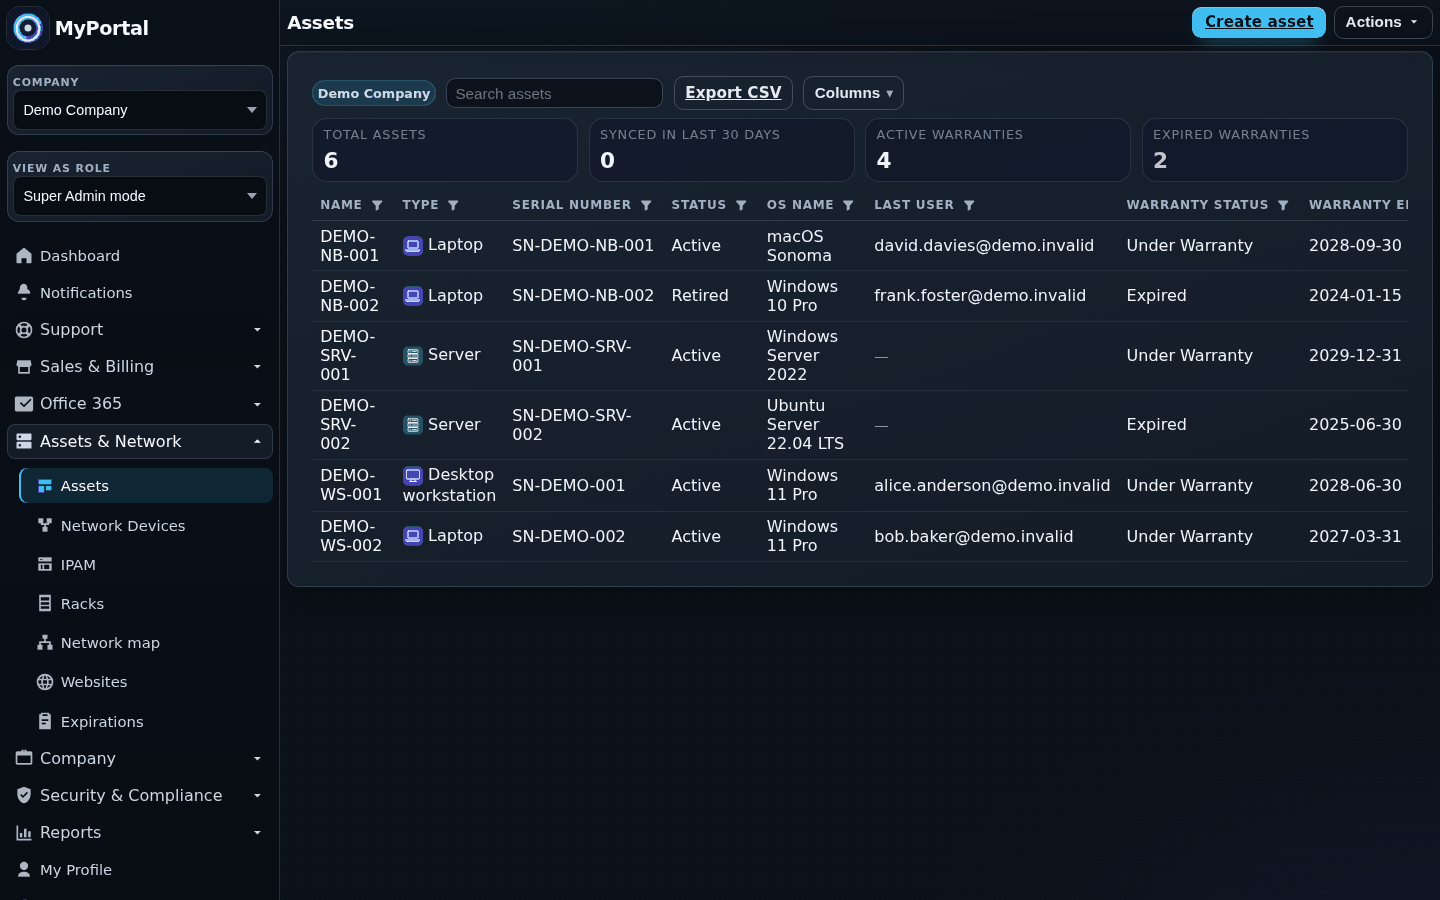
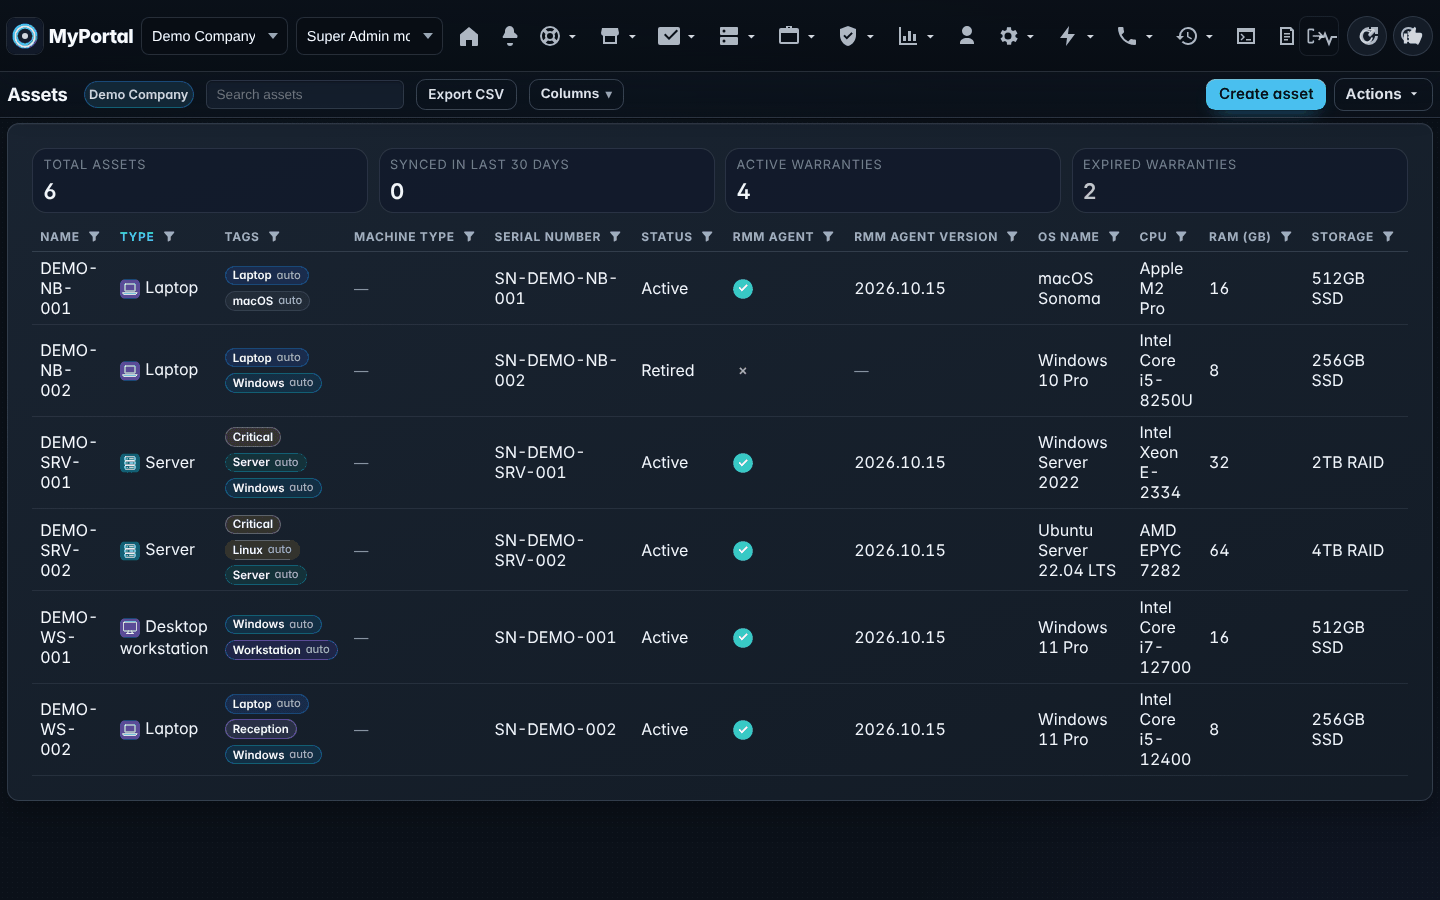
Update README with RMM, custom forms and other new features
Add a Remote monitoring and management section (agent roll-out, scripts,
checks, targeting, event logs, inventory and machine stats, patch
management, remote control and findings) and cover custom forms, client
onboarding, tags, warranty lookup, legal policies and AI opt-out, LLM
usage, the .env checker, tray deployment URLs, Microsoft 365 signature
targeting and reported emails. Replace OpnForm with Custom Forms, list
Gitea, Chocolatey, RustDesk and MeshCentral as integrations, note the
event log and stats databases and the RMM agent in the architecture,
link the new wiki pages, mention the top menu default, and move the
Sophia note out of the License section.

Add screenshots of the RMM pages, asset machine stats, custom forms,
client onboarding and LLM usage, and refresh the tickets, ticket detail
and assets screenshots in the current UI.

Claude-Session: https://claude.ai/code/session_01C7DWwnC7K9fWo76hTB7unL

diff --git a/README.md b/README.md
@@ -2,7 +2,7 @@
 
 <p align="center">
   <strong>A self-hosted customer portal and service-desk platform for managed service providers.</strong><br />
-  Tickets, assets, Microsoft 365, compliance, billing and automation for every customer company, in one place.
+  Tickets, assets, remote monitoring, Microsoft 365, compliance, billing and automation for every customer company, in one place.
 </p>
 
 <p align="center">
@@ -29,6 +29,7 @@
 - [Overview](#overview)
 - [Feature tour](#feature-tour)
   - [Service desk](#service-desk)
+  - [Remote monitoring and management](#remote-monitoring-and-management)
   - [Sales, shop and billing](#sales-shop-and-billing)
   - [Microsoft 365](#microsoft-365)
   - [Assets, network and staff](#assets-network-and-staff)
@@ -44,11 +45,13 @@
 ## Overview
 
 MyPortal gives an MSP and its customers a shared workspace. Technicians and super admins switch between customer
-companies from the sidebar. Customer users see only their own company, limited by the roles and permissions you give
-them.
+companies from the company switcher in the menu. Customer users see only their own company, limited by the roles and
+permissions you give them.
 
 - **Multi-company by design.** Company switching, reusable roles, per-company permissions, a "view as role"
   preview, and impersonation for support.
+- **Remote management built in.** The MyPortal RMM agent runs scripts and checks and collects inventory on Windows,
+  macOS and Linux devices. On Windows it also handles patching and event log collection.
 - **Secure by default.** TOTP two-factor enrolment is mandatory for every account. Passkeys (WebAuthn), CSRF
   protection, rate limiting, session management, an encrypted credential vault, and a full audit trail are built in.
 - **Modular.** Each area of the app is a hot-reloadable *feature pack*. Integrations are switched on as *modules*,
@@ -56,30 +59,81 @@ them.
 - **Operable.** Blue/green production installs, one-click upgrades from the portal, a Docker deployment script,
   Redis-backed multi-worker scaling, and a built-in scheduler.
 
+The menu runs across the top of the page by default. Each user can move it to a left sidebar under
+**My Profile → Menu position**.
+
 There are no default credentials. On first visit you are sent to registration, and the first account created becomes
 the super administrator.
 
 ## Feature tour
 
-> Screenshots were taken from a fresh install loaded with MyPortal's built-in demo data.
+> Screenshots were taken from installs loaded with MyPortal's built-in demo data, plus sample tickets and RMM
+> devices. The newer screenshots show the default top menu; the older ones show the optional left menu.
 
 ### Service desk
 
 | | |
 |---|---|
 | <img src="docs/images/readme/ticket-detail.png" alt="Ticket detail" /> | <img src="docs/images/readme/issue-tracker.png" alt="Issue tracker" /> |
-| **Ticket detail:** a rich-text reply editor, internal notes, billable time and labour types, resolution steps, AI summaries, tasks, linked assets, attachments, and expenses. | **Issue tracker:** follow one problem across many companies, with a separate status for each company. |
+| **Ticket detail:** a rich-text reply editor, internal notes, billable time and labour types, resolution steps, AI summaries, tasks, linked assets, attachments, and expenses. Conversation filters split customer, technician, internal, automation and AI replies, with billable and non-billable minutes. | **Issue tracker:** follow one problem across many companies, with a separate status for each company. |
 
 - **Tickets.** Saved views, grouping, configurable columns, status summary cards, watchers, split and merge,
   scheduled ticket creation, SLAs and business hours, email tracking (opens, deliveries, bounces), and replies by
-  email over IMAP.
+  email over IMAP. Automation and RMM check actions are recorded in the conversation history, internal and AI notes
+  stay hidden from customers, and a task completes when its linked ticket closes.
+- **Custom forms.** Build request forms from 18 field types, including signatures, star ratings, matrix grids, file
+  uploads, audio recordings, and photo or video capture on mobile. Each submission becomes a ticket. Limit a form to
+  chosen users, or share it publicly with an expiring magic link.
+- **Client onboarding.** Send a new client a single-use magic link to a public onboarding form with your own custom
+  questions and invitation email. Their company is created pending your approval, with a ticket in the New Client
+  status.
 - **Knowledge base.** Articles with permission scopes, conditional content, review dates, AI tags, and natural
   language search. Search runs across both documentation and the knowledge base.
-- **Service status, forms ([OpnForm](https://opnform.com)), help pages,** and customer **chat**, including a
-  [Matrix](docs/wiki/integrations/Matrix%20Chat.md) bridge.
+- **Service status, help pages,** customer **chat** (including a [Matrix](docs/wiki/integrations/Matrix%20Chat.md)
+  bridge), and an in-app **feedback** button that opens a follow-up ticket.
 - **Calls and voice.** Click-to-call, call recordings with transcription, and booking calls through Cal.com.
 
+| | |
+|---|---|
+| <img src="docs/images/readme/custom-forms.png" alt="Custom forms" /> | <img src="docs/images/readme/client-onboarding.png" alt="Client onboarding" /> |
+| **Custom forms:** a form builder with field ordering, required fields, access control, and magic-link sharing. | **Client onboarding:** track each link from sent to awaiting approval, then approve, decline, regenerate, or revoke it. |
+
 <p align="center"><img src="docs/images/readme/knowledge-base.png" alt="Knowledge base" width="900" /></p>
+
+### Remote monitoring and management
+
+The MyPortal RMM agent is a separate service from the tray app. On Windows and macOS the tray app installs it: push it
+to one device from the Assets page, or turn on automatic roll-out for a whole company. On Linux, install it by hand.
+Each asset shows its agent's status, version and install history, and has a one-click repair.
+
+| | |
+|---|---|
+| <img src="docs/images/readme/rmm-scripts.png" alt="RMM scripts" /> | <img src="docs/images/readme/rmm-checks.png" alt="RMM checks" /> |
+| **Scripts:** a PowerShell, Bash and Zsh library kept in Gitea, with Common and per-company folders, parameters detected from each script, AI summaries, and live output. | **Checks:** disk, ping, CPU, memory, Windows service, network throughput, script result, and agent offline checks that run a script, schedule one, or raise a ticket. |
+
+- **Scripts.** Run a script on one device or many, then retry or cancel it. Attach files that are downloaded and
+  verified before the script starts. Each script runs sequentially, in parallel with others, or straight away
+  ("Run Anyway") for urgent tasks such as a reboot. Schedules run scripts on a cron, and onboarding scripts run when
+  the agent is first installed on a device. Technicians sign in to the bundled Gitea with their MyPortal account.
+- **Targeting.** Checks, schedules, patch policies and event log rules can target devices with AND/OR rules on the
+  operating system, installed software, tags, custom fields, and more.
+- **Event logs.** Windows event logs are collected into a separate database. Event log rules can raise a ticket or
+  run or schedule a script when an entry matches.
+- **Inventory and machine stats.** Hardware and software inventory with application version history, temperature
+  sensors, and CPU, memory, disk, network and ping graphs kept for 90 days.
+- **Patch management.** Windows Update policies (update categories, deferral, active hours, and reboot behaviour) and
+  Chocolatey application policies, using a Chocolatey package catalogue and per-company package sources.
+- **Remote control.** Connect with [RustDesk or MeshCentral](docs/wiki/administration/Remote%20Control.md), switched on
+  for each session by an activation script that also installs a missing RustDesk client.
+- **Findings.** Every six hours MyPortal looks across every company's RMM data for event spikes, security events,
+  software changes, performance outliers and failing checks. An LLM can add insights that link them.
+
+| | |
+|---|---|
+| <img src="docs/images/readme/rmm-patching.png" alt="Patch management" /> | <img src="docs/images/readme/rmm-findings.png" alt="RMM findings" /> |
+| **Patch management:** global and per-company Windows Update and Chocolatey policies, each with its own schedule and device rules. | **Findings:** severity-ranked items to acknowledge or dismiss, with the evidence behind each one. |
+| <img src="docs/images/readme/asset-machine-stats.png" alt="Asset machine stats" /> | <img src="docs/images/readme/rmm-event-logs.png" alt="Event logs" /> |
+| **Machine stats:** per-device performance and temperature history on the redesigned asset page. | **Event logs:** search every collected entry by device, log, level, event ID and message. |
 
 ### Sales, shop and billing
 
@@ -90,7 +144,7 @@ the super administrator.
 
 - Cart, **quotes**, and **orders** with shipping status notifications.
 - **Invoices**, with approval workflow and [Xero](docs/wiki/integrations/Xero%20Integration.md) sync of billable
-  ticket time, labour rates, and automatic invoice sending.
+  ticket time, labour rates, and automatic invoice emails to customers.
 - **Marketing pages and email campaigns**, with lead capture.
 
 <p align="center"><img src="docs/images/readme/invoices.png" alt="Invoices" width="900" /></p>
@@ -102,20 +156,27 @@ the super administrator.
 | <img src="docs/images/readme/m365-best-practices.png" alt="Microsoft 365 best practices" /> | <img src="docs/images/readme/licenses.png" alt="Licences" /> |
 | **Best practices:** tenant checks scored against CIS-style benchmarks, with business-impact notes and remediation. | **Licences:** per-SKU totals, allocation, expiry, and auto-renew status. |
 
-- Guided tenant connection through an enterprise app (PKCE). User and shared mailbox reporting, email signature
-  management (including classic Outlook), out-of-office, spam search and purge, and diagnostics.
+- Guided tenant connection through an enterprise app (PKCE), with connection diagnostics. User and shared mailbox
+  reporting, Secure Score, out-of-office, spam search and purge, and user-reported emails from Defender.
+- **Email signatures** for new Outlook and classic Outlook, with primary and additional signatures targeted by
+  staff details such as department, and import from an Outlook signature ZIP.
 - **Staff onboarding and offboarding** with admin approval. This covers account provisioning, mailbox forwarding and
-  delegation, and OneDrive export on offboarding.
+  delegation, and OneDrive export on offboarding. Technicians can submit a request on a staff member's behalf.
 
 ### Assets, network and staff
 
 | | |
 |---|---|
 | <img src="docs/images/readme/assets.png" alt="Assets" /> | <img src="docs/images/readme/expirations.png" alt="Expirations" /> |
-| **Assets:** synced from RMM tools or added by hand, with custom fields, photos, warranty tracking, and CSV export. | **Expirations:** one view of upcoming warranty and knowledge-base expiry dates, with reminders. |
+| **Assets:** synced from RMM tools or the MyPortal RMM agent, or added by hand, with tags, RMM agent status and version, custom fields, photos, warranty tracking, and CSV export. | **Expirations:** one view of upcoming warranty and knowledge-base expiry dates, with reminders. |
 
-- **Network:** network device discovery through subnet scanners, IPAM, rack elevations, an interactive
-  network map, and website availability and certificate monitoring.
+- **Asset detail:** profile, inventory, custom fields (including multi-line text), warranty, tags, hardware,
+  software, scripts, checks, machine stats and event logs in one page. Warranty dates can be looked up from
+  [Dell, HP and Lenovo](docs/wiki/integrations/Warranty%20Lookup.md).
+- **Tags** on assets and companies, alongside automatic tags such as operating system and device type. Scripts,
+  checks and automations use them to pick their devices.
+- **Network:** network device discovery through subnet scanners, IPAM, rack elevations with an item image library,
+  an interactive network map with PDF export, and website availability and certificate monitoring.
 - **Staff workspace:** a directory with Microsoft 365 sign-in data, custom fields, and onboarding workflows.
   Alongside it are **processes** (tracked runbooks) and **shared credentials** with secure one-time sharing.
 
@@ -133,6 +194,9 @@ the super administrator.
   assessment library.
 - **Windows Defender** health and detections through the tray agent, **DMARC** aggregate reporting, and backup job
   history and daily summaries.
+- **Privacy and legal:** a Privacy Policy, Acceptable Use Policy and Terms that users must accept when they change,
+  a per-user opt-out from AI processing, an account anonymisation workflow, and a blocklist of email domains that
+  cannot be used for companies.
 - **Reports:** a company overview PDF, saved reports, and reporting dashboards.
 
 <p align="center"><img src="docs/images/readme/bcp.png" alt="Business continuity overview" width="900" /></p>
@@ -152,23 +216,37 @@ licences, subscriptions and compliance, with PDF download and a report designer.
   system covering tickets, companies, and staff.
 - **AI:** [Ollama](https://ollama.com)-powered ticket summaries, tags, and resolution steps. Also a RAG index over
   tickets and the knowledge base, AI quality evaluation, and an
-  [MCP server](docs/wiki/integrations/MCP%20Integration.md) for ChatGPT and other MCP clients. AI Ticket Troubleshooter collects log files from devices, analyses, then reports possible solutions.
+  [MCP server](docs/wiki/integrations/MCP%20Integration.md) for ChatGPT and other MCP clients. The AI ticket
+  troubleshooter works in stages: it finds related articles, suggests steps, then analyses the device's stored event
+  logs and log files, and posts its progress as internal notes.
+- **Sophia:** the AI support assistant, chat bot and ticket troubleshooter share the name **Sophia**. Set
+  `AI_AGENT_NAME` in `.env` to choose another name (blank values use Sophia), then restart the application. Existing
+  portal chat history and AI-authored ticket notes show the configured name when they load.
 - **Administration:** companies, users, roles, sessions, impersonation, approvals, API keys, modules, feature packs,
-  tray app configuration, system updates, a change log, and an audit trail.
+  tags, tray app configuration, system updates, a change log, and an audit trail. Also:
+  - **LLM usage:** requests and tokens for each MyPortal function and model.
+  - **.env checker:** super admins can check the server's settings and format a `.env` file in the browser.
+  - **Tray deployment URLs:** per-company download links that build Windows EXE and MSI installers. Tray apps
+    update themselves from MyPortal.
 
-<p align="center"><img src="docs/images/readme/audit-trail.png" alt="Audit trail" width="900" /></p>
+| | |
+|---|---|
+| <img src="docs/images/readme/llm-usage.png" alt="LLM usage" /> | <img src="docs/images/readme/audit-trail.png" alt="Audit trail" /> |
+| **LLM usage:** daily token totals, failed requests, and each function's share of tokens. | **Audit trail:** every change, with who made it and from where. |
 
 ## Integrations
 
 | Area | Integrations |
 |---|---|
-| RMM and PSA | Tactical RMM, Syncro (ticket and company import), Hudu, Huntress |
+| RMM and PSA | MyPortal RMM agent, Tactical RMM, Syncro (ticket and company import), Hudu, Huntress |
+| Scripts, patching and remote control | Gitea (script library), Chocolatey, RustDesk, MeshCentral |
 | Accounting and time | Xero (OAuth2), Solidtime |
 | Email | IMAP mailboxes and filters, SMTP and SMTP relay, SMTP2Go (delivery tracking), Microsoft 365 mail |
 | Monitoring | Uptime Kuma, Windows Defender (via the tray agent), DMARC reports |
+| Warranty | Dell, HP and Lenovo warranty lookup |
 | Messaging and notifications | ntfy, Matrix chat, SMS gateway and inbound SMS, Trello |
 | AI | Ollama, ChatGPT and MCP clients |
-| Other | OpnForm, Cal.com, Password Pusher, generic webhooks, and an HTTP integration for external tools |
+| Other | Cal.com, Password Pusher, generic webhooks, and an HTTP integration for external tools |
 
 Modules are enabled and configured under **Administration → Modules**.
 
@@ -177,20 +255,23 @@ Modules are enabled and configured under **Administration → Modules**.
 | Layer | Technology |
 |---|---|
 | Web and API | Python 3.10+, FastAPI, Uvicorn, Jinja2 templates; OpenAPI docs at `/docs` |
-| Data | MariaDB 10.10+ through async drivers, with file-driven SQL migrations in [`migrations/`](migrations) |
+| Data | MariaDB 10.10+ through async drivers, with file-driven SQL migrations in [`migrations/`](migrations). Optional separate databases hold RMM event logs and machine stats |
 | Background work | APScheduler with cron expressions; optional Redis for multi-worker coordination |
 | Documents | WeasyPrint (PDF), python-docx |
+| Script library | Gitea, run locally by the installers and served at `/gitea` |
 | Tray agent | Go service and UI for Windows and macOS, plus an Electron chat shell ([`tray/`](tray)) |
+| RMM agent | Go service for Windows, macOS and Linux ([`rmm/`](rmm)) |
 
 ```
 app/
 ├── api/routes/     REST API endpoints
-├── features/       Hot-reloadable feature packs (tickets, shop, m365_admin, compliance, …)
+├── features/       Hot-reloadable feature packs (tickets, rmm, shop, m365_admin, compliance, …)
 ├── services/       Business logic and integration clients
 ├── repositories/   Database access
 ├── templates/      Jinja2 views
 └── static/         CSS, JavaScript and images
 plugins/            Optional plugins (examples: hello_world, custom_dashboard_widget)
+rmm/                MyPortal RMM agent
 tray/               Cross-platform tray application
 deploy/, docker/    nginx, systemd, fail2ban and container deployment assets
 ```
@@ -199,8 +280,8 @@ deploy/, docker/    nginx, systemd, fail2ban and container deployment assets
 
 ### Production (Ubuntu 24.04 / Debian 12)
 
-The installer sets up nginx on port 80, MariaDB, local Redis, and immutable blue/green releases. It works on bare metal, a VM,
-or an LXC container.
+The installer sets up nginx on port 80, MariaDB, local Redis, a local Gitea for the RMM script library, and immutable
+blue/green releases. It works on bare metal, a VM, or an LXC container.
 
 ```bash
 sudo git clone https://github.com/bradhawkins85/MyPortal /opt/myportal/control
@@ -247,19 +328,21 @@ python -m uvicorn app.main:app --reload
 - API docs: <http://localhost:8000/docs>
 - Tests: `pytest`
 - Redis is optional locally and recommended for production. See [Redis](docs/wiki/getting-started/Redis.md).
+- RMM event logs and machine stats need their own databases. Set `EVENT_LOG_DB_*` and `STATS_DB_*` in `.env`.
 
 A **Demo Company** with sample staff, assets, licences, subscriptions, compliance checks, and issues is seeded
-automatically. It's useful for exploring the UI, and it's what the screenshots above use.
+automatically. It's useful for exploring the UI, and it's what the screenshots above are based on.
 
 ## Documentation
 
 | Topic | Where to start |
 |---|---|
 | Getting started | [Overview](docs/wiki/getting-started/Overview.md) · [Configuration](docs/wiki/getting-started/Configuration.md) · [Tray App](docs/wiki/getting-started/Tray%20App.md) · [Tray Build Server](docs/wiki/getting-started/Tray%20Build%20Server.md) · [Onboarding Wizard](docs/wiki/getting-started/Onboarding%20Wizard.md) |
-| Administration | [Message Templates](docs/wiki/administration/Message%20Templates.md) · [Network Map](docs/wiki/administration/Network%20Map.md) · [Company Memberships](docs/wiki/administration/Company%20Memberships.md) · [API Keys](docs/wiki/administration/API%20Keys.md) |
-| Tickets | [IMAP Setup](docs/wiki/tickets/IMAP%20Setup.md) · [Email Reply Handling](docs/wiki/tickets/Email%20Reply%20Handling.md) · [Split and Merge](docs/wiki/tickets/Ticket%20Split%20and%20Merge.md) · [Tickets API](docs/wiki/tickets/Tickets%20API.md) |
+| RMM | [Scripts](docs/wiki/administration/RMM%20Scripts.md) · [Checks](docs/wiki/administration/RMM%20Checks.md) · [Event Logs](docs/wiki/administration/RMM%20Event%20Logs.md) · [Inventory](docs/wiki/administration/RMM%20Inventory.md) · [Patch Management](docs/wiki/administration/RMM%20Patch%20Management.md) · [Findings](docs/wiki/administration/RMM%20Findings.md) · [Remote Control](docs/wiki/administration/Remote%20Control.md) |
+| Administration | [Message Templates](docs/wiki/administration/Message%20Templates.md) · [Network Map](docs/wiki/administration/Network%20Map.md) · [Company Memberships](docs/wiki/administration/Company%20Memberships.md) · [API Keys](docs/wiki/administration/API%20Keys.md) · [Client Onboarding](docs/wiki/administration/Client%20Onboarding.md) · [Tags](docs/wiki/administration/Tags.md) · [LLM Usage](docs/wiki/administration/LLM%20Usage.md) · [Legal Policies](docs/wiki/administration/Legal%20Policies.md) |
+| Tickets | [IMAP Setup](docs/wiki/tickets/IMAP%20Setup.md) · [Email Reply Handling](docs/wiki/tickets/Email%20Reply%20Handling.md) · [Split and Merge](docs/wiki/tickets/Ticket%20Split%20and%20Merge.md) · [Tickets API](docs/wiki/tickets/Tickets%20API.md) · [Custom Forms API](docs/wiki/api-reference/Custom%20Forms%20API.md) |
 | Compliance | [SMB1001](docs/wiki/compliance/SMB1001.md) · [Essential 8](docs/wiki/compliance/Essential%208%20Requirements.md) · [Security Overview](docs/wiki/compliance/Security%20Overview.md) |
-| Integrations | [Xero](docs/wiki/integrations/Xero%20Integration.md) · [Uptime Kuma](docs/wiki/integrations/Uptime%20Kuma.md) · [MCP](docs/wiki/integrations/MCP%20Integration.md) · [Microsoft 365 app setup](docs/wiki/m365/PKCE%20App%20Setup.md) |
+| Integrations | [Xero](docs/wiki/integrations/Xero%20Integration.md) · [Uptime Kuma](docs/wiki/integrations/Uptime%20Kuma.md) · [MCP](docs/wiki/integrations/MCP%20Integration.md) · [Microsoft 365 app setup](docs/wiki/m365/PKCE%20App%20Setup.md) · [Warranty Lookup](docs/wiki/integrations/Warranty%20Lookup.md) |
 | Developers | [Feature Packs](docs/wiki/developer/Feature%20Packs.md) · [Plugins](docs/wiki/developer/Plugins.md) · [UI Layout Standards](docs/wiki/developer/UI%20Layout%20Standards.md) · [Design Guidelines](docs/wiki/developer/Design%20Guidelines.md) |
 | Security | [Passkeys](docs/passkeys.md) · [Fail2ban](docs/wiki/getting-started/Fail2ban%20Setup.md) |
 
@@ -268,5 +351,3 @@ automatically. It's useful for exploring the UI, and it's what the screenshots a
 MyPortal is licensed under the [GNU Affero General Public License v3.0](LICENSE).
 
 See [LICENSE](LICENSE) for the full terms.
-
-The AI support assistant, chat bot and ticket troubleshooter share the name **Sophia**. Set `AI_AGENT_NAME` in `.env` to choose another name (blank values use Sophia). Restart the application after changing it. Existing portal chat history and AI-authored ticket notes display the configured name when loaded.
